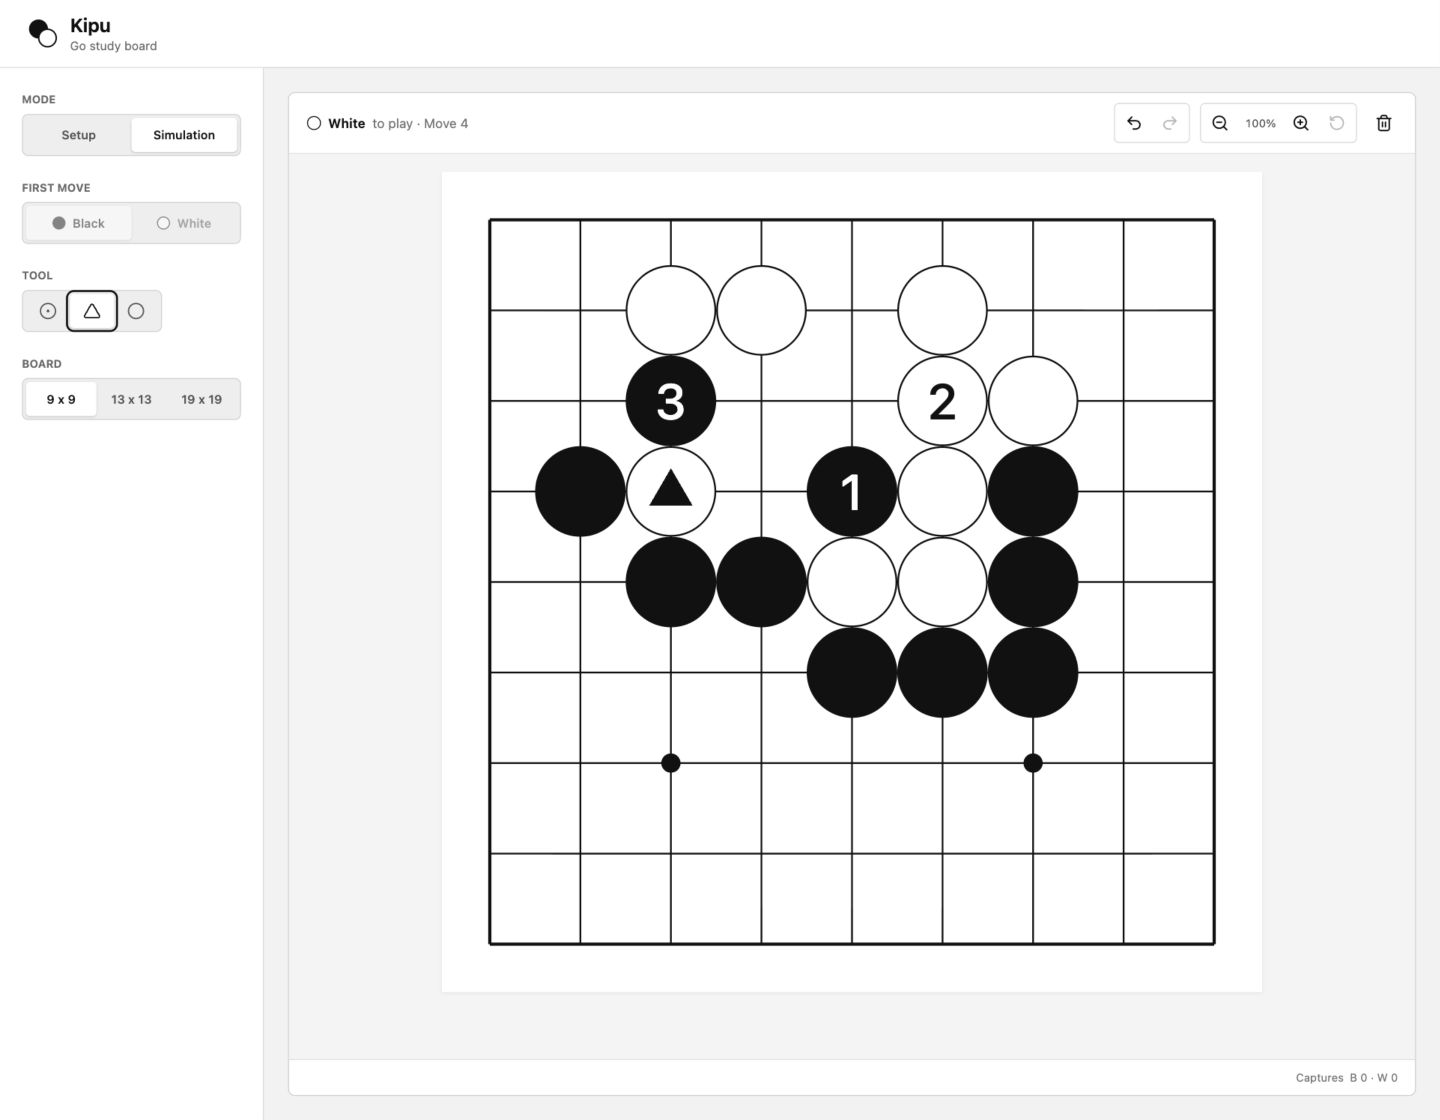
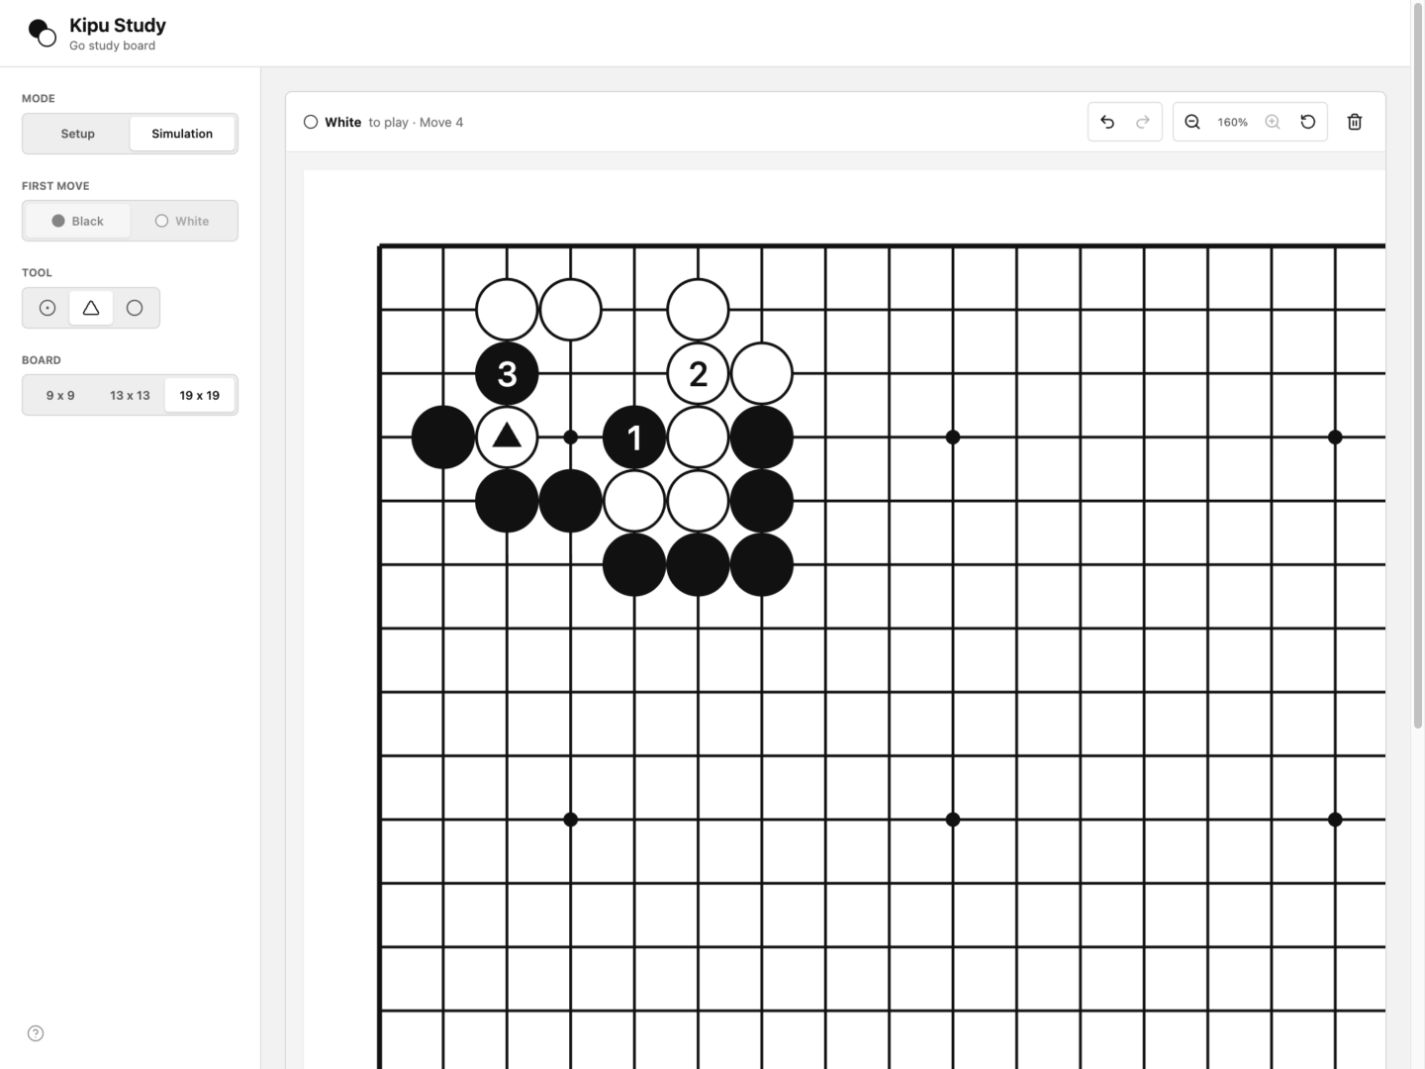
Rename app to Kipu Study

diff --git a/src/App.tsx b/src/App.tsx
@@ -869,7 +869,7 @@ export default function App() {
           <span />
         </div>
         <div>
-          <h1>Kipu</h1>
+          <h1>Kipu Study</h1>
           <p>Go study board</p>
         </div>
       </header>
@@ -982,7 +982,7 @@ export default function App() {
         </aside>
 
         <main className="board-area">
-          <section className="board-frame" aria-label="Kipu board">
+          <section className="board-frame" aria-label="Kipu Study board">
             <div className="board-toolbar">
               <div className="turn-status" aria-live="polite">
                 {mode === "setup" ? (

diff --git a/index.html b/index.html
@@ -7,7 +7,7 @@
       name="description"
       content="A minimalist Go board for composing and replaying positions."
     />
-    <title>Kipu</title>
+    <title>Kipu Study</title>
   </head>
   <body>
     <div id="root"></div>

diff --git a/README.md b/README.md
@@ -1,19 +1,19 @@
-# Kipu
+# Kipu Study
 
 A minimalist, vector-first Go board for composing positions and studying
 variations.
 
-Kipu turns a printed game record or teaching shape into an interactive board.
-Set up any position freely, then switch to simulation mode to play numbered
-moves with captures and alternating turns.
+Kipu Study turns a printed game record or teaching shape into an interactive
+board. Set up any position freely, then switch to simulation mode to play
+numbered moves with captures and alternating turns.
 
-![Kipu recreating a numbered Go position](docs/images/kipu-desktop.png)
+![Kipu Study showing a zoomed 19 by 19 numbered Go position](docs/images/kipu-desktop.png)
 
-## Why Kipu
+## Why Kipu Study
 
 Traditional Kipu diagrams are compact and expressive, but they are static.
-Kipu keeps that quiet black-and-white visual language while making the position
-editable, replayable, and easier to use while learning or teaching.
+Kipu Study keeps that quiet black-and-white visual language while making the
+position editable, replayable, and easier to use while learning or teaching.
 
 <p align="center">
   <img
@@ -62,8 +62,8 @@ editable, replayable, and easier to use while learning or teaching.
 1. Build the starting shape in Setup mode.
 2. Switch to **Simulation** mode.
 3. Choose whether Black or White moves first.
-4. Place moves normally. Kipu numbers each move, alternates colors, and removes
-   captured groups.
+4. Place moves normally. Kipu Study numbers each move, alternates colors, and
+   removes captured groups.
 5. Use undo and redo to compare branches or revisit a teaching point.
 
 ## Shortcuts
@@ -85,7 +85,7 @@ inside the application.
 
 ## Quick Start
 
-Kipu currently requires Node.js 22 or newer.
+Kipu Study currently requires Node.js 22 or newer.
 
 ```sh
 npm install
@@ -121,7 +121,7 @@ Not implemented yet:
 
 ## Architecture
 
-Kipu is a client-side React and TypeScript application built with Vite.
+Kipu Study is a client-side React and TypeScript application built with Vite.
 
 ```text
 src/

diff --git a/AGENTS.md b/AGENTS.md
@@ -4,9 +4,9 @@ These instructions apply to the entire repository.
 
 ## Product
 
-Kipu is a minimalist web application for composing Go positions and studying
-numbered variations. Its visual target is a printed black-and-white Kipu:
-quiet, precise, diagram-first, and useful for repeated teaching work.
+Kipu Study is a minimalist web application for composing Go positions and
+studying numbered variations. Its visual target is a printed black-and-white
+Kipu: quiet, precise, diagram-first, and useful for repeated teaching work.
 
 Read the implementation before changing behavior. When documentation and code
 disagree, treat the code as current behavior and update the documentation with
